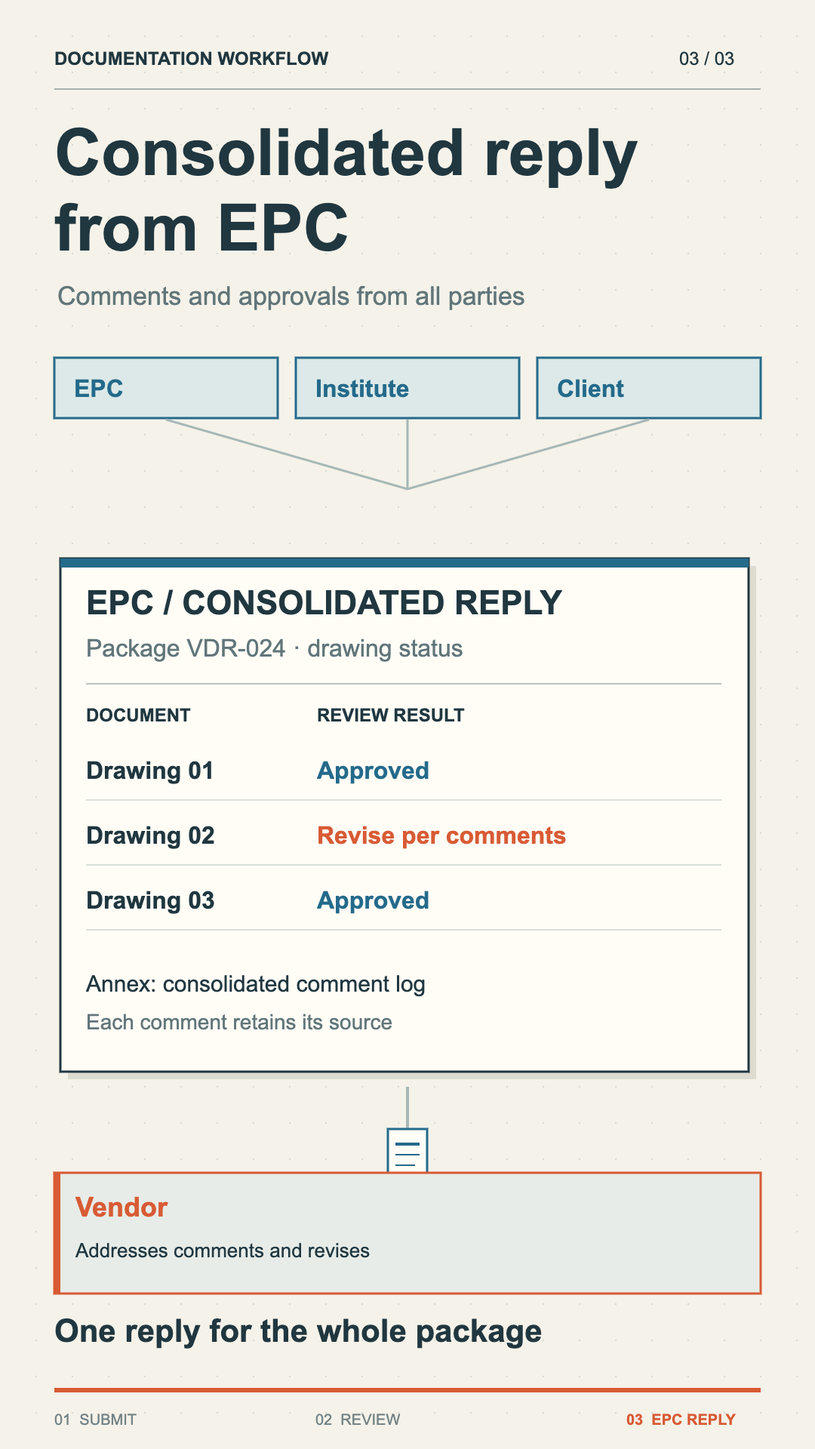
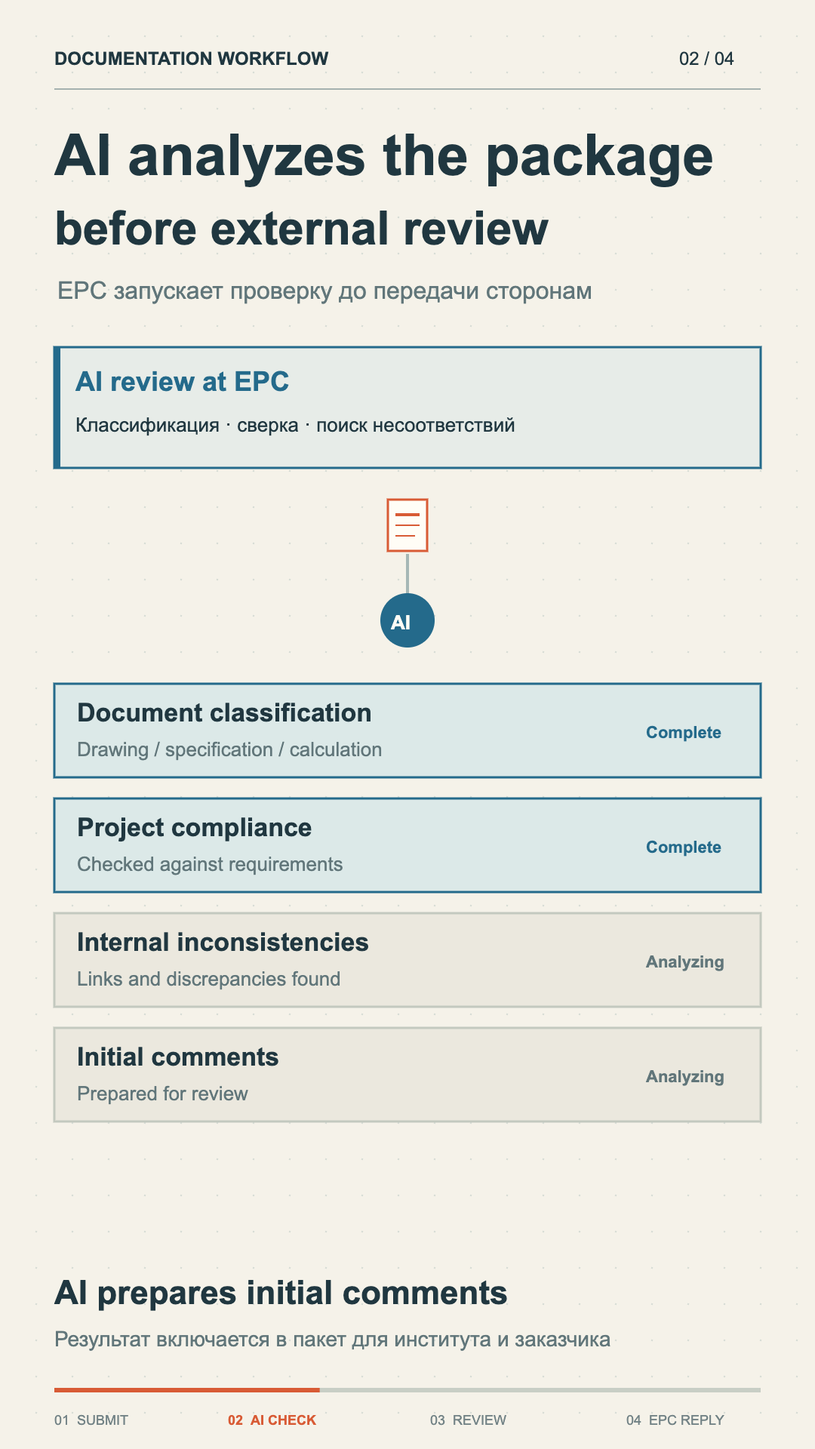
Update EPC animation with AI-assisted review

diff --git a/public/demos/epc-document-flow/index.html b/public/demos/epc-document-flow/index.html
@@ -1,8 +1,8 @@
-<!doctype html><html lang="ru"><meta charset="utf-8"><meta name="viewport" content="width=device-width,initial-scale=1"><link rel="icon" href="data:,"><title>Документация · рассмотрение и сводный ответ</title><style>*{box-sizing:border-box}body{margin:0;background:#dddcd6;color:#20333c;font:14px system-ui;display:flex;align-items:center;flex-direction:column;padding:18px;gap:12px}canvas{display:block;width:auto;max-width:100%;height:min(82vh,960px);background:#f5f2e9}nav{display:flex;gap:12px;align-items:center;flex-wrap:wrap;justify-content:center}button{background:#20333c;color:#fff;border:0;padding:10px 16px;border-radius:3px;cursor:pointer}input{width:150px}a{color:#20333c}small{max-width:500px;text-align:center}</style><canvas id="c" aria-label="Передача документации, рассмотрение институтом, заказчиком и EPC, сводный ответ вендору"></canvas><nav><a id="language" href="?lang=en">English</a><button id="play">Пауза</button><input id="seek" type="range" min="0" max="359" value="0" aria-label="Кадр"><span id="time"></span><a href="?grid=12">Контрольный лист</a></nav><small>12 секунд · вендор → EPC → институт и заказчик → сводный ответ</small><script>
-const C=document.getElementById('c'),q=new URLSearchParams(location.search),EN=q.get('lang')==='en',FPS=30,TOTAL=360,SEED=Number(q.get('s')||7),W=Number(q.get('w')||1080);let ctx;
+<!doctype html><html lang="ru"><meta charset="utf-8"><meta name="viewport" content="width=device-width,initial-scale=1"><link rel="icon" href="data:,"><title>Документация · рассмотрение и сводный ответ</title><style>*{box-sizing:border-box}body{margin:0;background:#dddcd6;color:#20333c;font:14px system-ui;display:flex;align-items:center;flex-direction:column;padding:18px;gap:12px}canvas{display:block;width:auto;max-width:100%;height:min(82vh,960px);background:#f5f2e9}nav{display:flex;gap:12px;align-items:center;flex-wrap:wrap;justify-content:center}button{background:#20333c;color:#fff;border:0;padding:10px 16px;border-radius:3px;cursor:pointer}input{width:150px}a{color:#20333c}small{max-width:500px;text-align:center}</style><canvas id="c" aria-label="ИИ анализирует документацию вендора до рассмотрения институтом и заказчиком, затем объединяет замечания для ответа EPC"></canvas><nav><a id="language" href="?lang=en">English</a><button id="play">Пауза</button><input id="seek" type="range" min="0" max="719" value="0" aria-label="Кадр"><span id="time"></span><a href="?grid=16">Контрольный лист</a></nav><small>24 секунды · вендор → EPC → ИИ-анализ → институт и заказчик → сводный ответ</small><script>
+const C=document.getElementById('c'),q=new URLSearchParams(location.search),EN=q.get('lang')==='en',FPS=30,TOTAL=720,SEED=Number(q.get('s')||7),W=Number(q.get('w')||1080);let ctx;
 const ink='#203740',orange='#d85b35',blue='#246a8b',paper='#f5f2e9';
 const clamp=x=>Math.max(0,Math.min(1,x)),ease=x=>{x=clamp(x);return x*x*(3-2*x)};
-const EN_TEXT={"НА РАССМОТРЕНИЕ":"FOR REVIEW","01  ПЕРЕДАЧА":"01  SUBMIT","02  РАССМОТРЕНИЕ":"02  REVIEW","03  ОТВЕТ EPC":"03  EPC REPLY","Рассмотрение":"Review","всеми сторонами":"by all parties","EPC координирует общий цикл":"EPC coordinates the review","EPC-подрядчик":"EPC contractor","Рассылка и собственная проверка":"Distributes and reviews","Проектный институт":"Design institute","Проверка проектных решений":"Design review","Заказчик":"Client","Проверка требований":"Requirements review","Замечания и статусы → EPC":"Comments and status → EPC","Документы → на рассмотрение":"Documents → for review","EPC: техническая проверка":"EPC: technical review","Институт: проектные решения":"Institute: design decisions","Заказчик: требования к объекту":"Client: project requirements","Получено":"Received","Проверка":"Review","Параллельное рассмотрение":"Parallel review","Все ответы поступают в EPC":"All replies reach EPC","Согласование или замечания по каждому документу":"Approval or comments on each document","Единый ответ":"Consolidated reply","от EPC":"from EPC","Замечания и согласования всех сторон":"Comments and approvals from all parties","Институт":"Institute","EPC / СВОДНЫЙ ОТВЕТ":"EPC / CONSOLIDATED REPLY","Пакет VDR-024 · статусы по чертежам":"Package VDR-024 · drawing status","ДОКУМЕНТ":"DOCUMENT","РЕЗУЛЬТАТ РАССМОТРЕНИЯ":"REVIEW RESULT","Чертеж 01":"Drawing 01","Чертеж 02":"Drawing 02","Чертеж 03":"Drawing 03","Согласовано":"Approved","Учесть замечания":"Revise per comments","Приложение: общий реестр замечаний":"Annex: consolidated comment log","Источник каждого замечания сохранен":"Each comment retains its source","Вендор":"Vendor","Получает консолидированный ответ":"Receives the consolidated reply","Учитывает замечания и выпускает ревизию":"Addresses comments and revises","EPC объединяет ответы сторон":"EPC consolidates all replies","Один ответ по всему пакету":"One reply for the whole package","ДВИЖЕНИЕ ДОКУМЕНТАЦИИ":"DOCUMENTATION WORKFLOW","От вендора":"From vendor","к EPC":"to EPC","Пакет для рассмотрения решений":"Package for design review","ВЕНДОР":"VENDOR","Техническая документация":"Technical documentation","Чертеж":"Drawing","Спецификация":"Specification","Расчеты":"Calculations","EPC-ПОДРЯДЧИК":"EPC CONTRACTOR","Прием и регистрация":"Receipt and registration","Далее: проверка специалистами":"Next: specialist review","ЗАРЕГИСТРИРОВАНО":"REGISTERED","Формирование пакета":"Preparing the package","Передача в EPC":"Submitted to EPC","Пакет получен EPC":"Package received by EPC","Чертеж · спецификация · расчеты":"Drawing · specification · calculations","Документы ожидают рассмотрения":"Documents await review","Передача пакета от вендора к EPC":"Vendor package submitted to EPC","Рассмотрение всеми сторонами":"Review by all parties","Сводный ответ EPC вендору":"EPC consolidated reply to vendor"};function tr(s){return EN?(EN_TEXT[s]||s):s}
+const EN_TEXT={"НА РАССМОТРЕНИЕ":"FOR REVIEW","01  ПЕРЕДАЧА":"01  SUBMIT","02  РАССМОТРЕНИЕ":"02  REVIEW","03  ОТВЕТ EPC":"03  EPC REPLY","Рассмотрение":"Review","всеми сторонами":"by all parties","EPC координирует общий цикл":"EPC coordinates the review","EPC-подрядчик":"EPC contractor","Рассылка и собственная проверка":"Distributes and reviews","Проектный институт":"Design institute","Проверка проектных решений":"Design review","Заказчик":"Client","Проверка требований":"Requirements review","Замечания и статусы → EPC":"Comments and status → EPC","Документы → на рассмотрение":"Documents → for review","EPC: техническая проверка":"EPC: technical review","Институт: проектные решения":"Institute: design decisions","Заказчик: требования к объекту":"Client: project requirements","Получено":"Received","Проверка":"Review","Параллельное рассмотрение":"Parallel review","Все ответы поступают в EPC":"All replies reach EPC","Согласование или замечания по каждому документу":"Approval or comments on each document","Единый ответ":"Consolidated reply","от EPC":"from EPC","Замечания и согласования всех сторон":"Comments and approvals from all parties","Институт":"Institute","EPC / СВОДНЫЙ ОТВЕТ":"EPC / CONSOLIDATED REPLY","Пакет VDR-024 · статусы по чертежам":"Package VDR-024 · drawing status","ДОКУМЕНТ":"DOCUMENT","РЕЗУЛЬТАТ РАССМОТРЕНИЯ":"REVIEW RESULT","Чертеж 01":"Drawing 01","Чертеж 02":"Drawing 02","Чертеж 03":"Drawing 03","Согласовано":"Approved","Учесть замечания":"Revise per comments","Приложение: общий реестр замечаний":"Annex: consolidated comment log","Источник каждого замечания сохранен":"Each comment retains its source","Вендор":"Vendor","Получает консолидированный ответ":"Receives the consolidated reply","Учитывает замечания и выпускает ревизию":"Addresses comments and revises","EPC объединяет ответы сторон":"EPC consolidates all replies","Один ответ по всему пакету":"One reply for the whole package","ДВИЖЕНИЕ ДОКУМЕНТАЦИИ":"DOCUMENTATION WORKFLOW","От вендора":"From vendor","к EPC":"to EPC","Пакет для рассмотрения решений":"Package for design review","ВЕНДОР":"VENDOR","Техническая документация":"Technical documentation","Чертеж":"Drawing","Спецификация":"Specification","Расчеты":"Calculations","EPC-ПОДРЯДЧИК":"EPC CONTRACTOR","Прием и регистрация":"Receipt and registration","Далее: проверка специалистами":"Next: specialist review","ЗАРЕГИСТРИРОВАНО":"REGISTERED","Формирование пакета":"Preparing the package","Передача в EPC":"Submitted to EPC","Пакет получен EPC":"Package received by EPC","Чертеж · спецификация · расчеты":"Drawing · specification · calculations","Документы ожидают рассмотрения":"Documents await review","Передача пакета от вендора к EPC":"Vendor package submitted to EPC","Рассмотрение всеми сторонами":"Review by all parties","Сводный ответ EPC вендору":"EPC consolidated reply to vendor","01  ПЕРЕДАЧА":"01  SUBMIT","02  ИИ-ПРОВЕРКА":"02  AI CHECK","03  РАССМОТРЕНИЕ":"03  REVIEW","04  ОТВЕТ EPC":"04  EPC REPLY","ИИ анализирует пакет":"AI analyzes the package","до внешней рассылки":"before external review","ИИ-проверка в EPC":"AI review at EPC","Категоризация документов":"Document classification","Чертеж / спецификация / расчет":"Drawing / specification / calculation","Соответствие проекту":"Project compliance","Проверено по требованиям":"Checked against requirements","Внутренние несоответствия":"Internal inconsistencies","Выявлены связи и расхождения":"Links and discrepancies found","Первичные замечания":"Initial comments","Сформированы для рассмотрения":"Prepared for review","Анализ":"Analyzing","Готово":"Complete","Пакет готов к рассылке":"Package ready for distribution","ИИ формирует первичные замечания":"AI prepares initial comments","ИИ обрабатывает ответы":"AI processes the replies","объединяет замечания всех сторон":"and consolidates all comments","ИИ / СВОДНЫЙ РЕЕСТР":"AI / CONSOLIDATED COMMENT LOG","Дубликаты объединены · источники сохранены":"Duplicates merged · sources retained","EPC направляет оформленный ответ":"EPC issues the formatted reply","Получает замечания для проработки":"Receives comments for resolution","Анализирует предложения и выпускает ревизию":"Reviews proposals and issues a revision","ИИ собирает и оформляет замечания":"AI consolidates and formats comments","EPC направляет ответ вендору":"EPC sends the reply to the vendor","ИИ-анализ до внешней рассылки":"AI analysis before external distribution","Рассмотрение институтом и заказчиком":"Institute and client review","ИИ-сводка и ответ EPC вендору":"AI consolidation and EPC reply to vendor","EPC запускает проверку до передачи сторонам":"EPC starts the check before distribution","Классификация · сверка · поиск несоответствий":"Classification · compliance · discrepancy scan","Результат включается в пакет для института и заказчика":"The result is included for institute and client review","Далее: ИИ-анализ пакета":"Next: AI package analysis","Документы ожидают ИИ-проверки":"Documents await AI analysis","EPC проверяет оформление и направляет вендору":"EPC validates the package and sends it to the vendor"};function tr(s){return EN?(EN_TEXT[s]||s):s}
 function text(s,x,y,size=16,color=ink,bold=false){s=tr(s);ctx.fillStyle=color;ctx.font=`${bold?'bold ':''}${size}px Arial`;while(ctx.measureText(s).width>Math.max(70,504-x)&&size>9){size--;ctx.font=`${bold?'bold ':''}${size}px Arial`}ctx.fillText(s,x,y)}
 function line(x,y,a,b,color=ink,width=1){ctx.strokeStyle=color;ctx.lineWidth=width;ctx.beginPath();ctx.moveTo(x,y);ctx.lineTo(a,b);ctx.stroke()}
 function box(x,y,w,h,color,stroke){ctx.fillStyle=color;ctx.fillRect(x,y,w,h);if(stroke){ctx.strokeStyle=stroke;ctx.lineWidth=1.5;ctx.strokeRect(x,y,w,h)}}
@@ -11,11 +11,17 @@ function doc(x,y,angle,kind,seed){ctx.save();ctx.translate(x,y);ctx.rotate(angle
 if(kind==='Чертеж'){ctx.strokeStyle=blue;ctx.lineWidth=2;ctx.strokeRect(-47,-20,87,54);line(-59,7,53,7,blue,2);dot(-3,7,20,paper);ctx.strokeStyle=blue;ctx.stroke();line(-55,49,49,49,blue);line(-55,44,-55,54,blue);line(49,44,49,54,blue)}else{for(let k=0;k<4;k++)line(-68,-20+k*18,48-((seed+k*19)%28),-20+k*18,'#87999d',2)}
 line(-70,68,64,68,'#bbc3c0');text('REV. 0',-70,88,11,ink,true);text('НА РАССМОТРЕНИЕ',-16,88,8,ink);ctx.restore()}
 
-function footer(n,stage){line(36,921,504,921,'#c8cec5',3);line(36,921,36+468*n/359,921,orange,3);['01  ПЕРЕДАЧА','02  РАССМОТРЕНИЕ','03  ОТВЕТ EPC'].forEach((s,i)=>text(s,[36,209,415][i],944,10,i===stage?orange:'#738386',i===stage))}
+function footer(n,stage){line(36,921,504,921,'#c8cec5',3);line(36,921,36+468*n/479,921,orange,3);['01  ПЕРЕДАЧА','02  ИИ-ПРОВЕРКА','03  РАССМОТРЕНИЕ','04  ОТВЕТ EPC'].forEach((s,i)=>text(s,[36,151,285,415][i],944,9,i===stage?orange:'#738386',i===stage))}
 function actor(x,y,w,title,sub,color=blue){box(x,y,w,80,'#e7ece8',color);box(x,y,4,80,color);text(title,x+14,y+29,18,color,true);text(sub,x+14,y+56,13,ink)}
 function packet(x,y,color=orange){box(x-13,y-17,26,34,'#fffdf6',color);line(x-8,y-7,x+8,y-7,color,2);line(x-8,y,x+8,y,color);line(x-8,y+7,x+5,y+7,color)}
 function travel(x,y,a,b,t,color){line(x,y,a,b,'#a6b7b6',2);packet(x+(a-x)*ease(t),y+(b-y)*ease(t),color)}
-function review(n){const f=n-120; text('02 / 03',450,43,12,ink);text('Рассмотрение',36,116,40,ink,true);text('всеми сторонами',36,166,36,ink,true);text('EPC координирует общий цикл',38,202,18,'#61767a');
+function aiCheck(n){const f=n-120;text('02 / 04',450,43,12,ink);text('ИИ анализирует пакет',36,116,38,ink,true);text('до внешней рассылки',36,162,31,ink,true);text('EPC запускает проверку до передачи сторонам',38,198,16,'#61767a');
+actor(36,230,468,'ИИ-проверка в EPC','Классификация · сверка · поиск несоответствий',blue);
+packet(270,348,orange);line(270,367,270,397,'#a6b7b6',2);dot(270,411,18,blue);text('AI',259,417,13,'#fffdf6',true);
+const rows=[['Категоризация документов','Чертеж / спецификация / расчет'],['Соответствие проекту','Проверено по требованиям'],['Внутренние несоответствия','Выявлены связи и расхождения'],['Первичные замечания','Сформированы для рассмотрения']];
+rows.forEach((row,i)=>{const ready=f>=22+i*20;box(36,453+i*76,468,62,ready?'#dce9e8':'#ebe8de',ready?blue:'#c3c9bf');text(row[0],51,478+i*76,17,ink,true);text(row[1],51,501+i*76,13,'#61767a');text(ready?'Готово':'Анализ',428,489+i*76,11,ready?blue:'#61767a',true)});
+text(f<88?'ИИ формирует первичные замечания':'Пакет готов к рассылке',36,864,22,ink,true);text('Результат включается в пакет для института и заказчика',36,892,14,'#61767a');footer(n,1)}
+function review(n){const f=n-240; text('03 / 04',450,43,12,ink);text('Рассмотрение',36,116,40,ink,true);text('всеми сторонами',36,166,36,ink,true);text('EPC координирует общий цикл',38,202,18,'#61767a');
 actor(130,252,280,'EPC-подрядчик','Рассылка и собственная проверка');
 const returned=f>=65,t=returned?(f-65)/34:f/32;
 travel(returned?140:270,returned?473:342,returned?270:140,returned?342:473,t,returned?blue:orange);
@@ -23,20 +29,20 @@ travel(returned?400:270,returned?473:342,returned?270:400,returned?342:473,t,ret
 actor(36,485,224,'Проектный институт','Проверка проектных решений');actor(280,485,224,'Заказчик','Проверка требований');
 text(returned?'Замечания и статусы → EPC':'Документы → на рассмотрение',82,620,21,ink,true);
 const labels=['EPC: техническая проверка','Институт: проектные решения','Заказчик: требования к объекту'];labels.forEach((v,i)=>{const ready=f>=80+i*10;box(36,654+i*49,468,40,ready?'#dce9e8':'#ebe8de');text(v,49,680+i*49,16,ink);text(ready?'Получено':'Проверка',412,680+i*49,12,ready?blue:'#61767a',true)});
-text(f<65?'Параллельное рассмотрение':'Все ответы поступают в EPC',36,864,23,ink,true);text('Согласование или замечания по каждому документу',36,892,15,'#61767a');footer(n,1)}
-function response(n){const f=n-240,t=ease((f-66)/28);text('03 / 03',450,43,12,ink);text('Единый ответ',36,116,43,ink,true);text('от EPC',36,166,43,ink,true);text('Замечания и согласования всех сторон',38,202,17,'#61767a');
+text(f<65?'Параллельное рассмотрение':'Все ответы поступают в EPC',36,864,23,ink,true);text('Согласование или замечания по каждому документу',36,892,15,'#61767a');footer(n,2)}
+function response(n){const f=n-360,t=ease((f-66)/28);text('04 / 04',450,43,12,ink);text('ИИ обрабатывает ответы',36,112,34,ink,true);text('объединяет замечания всех сторон',36,154,27,ink,true);text('EPC проверяет оформление и направляет вендору',38,194,15,'#61767a');
 ['EPC','Институт','Заказчик'].forEach((v,i)=>{box(36+i*160,237,148,40,'#dce9e8',blue);text(v,49+i*160,263,16,blue,true);line(110+i*160,278,270,324,'#a6b7b6',1.5)});
-let y=332+t*38;box(45,y+5,456,340,'#dedbd1');box(40,y,456,340,'#fffdf6',ink);box(40,y,456,6,blue);text('EPC / СВОДНЫЙ ОТВЕТ',57,y+37,22,ink,true);text('Пакет VDR-024 · статусы по чертежам',57,y+65,16,'#61767a');line(57,y+83,478,y+83,'#bbc3c0');
+let y=332+t*38;box(45,y+5,456,340,'#dedbd1');box(40,y,456,340,'#fffdf6',ink);box(40,y,456,6,blue);text('ИИ / СВОДНЫЙ РЕЕСТР',57,y+37,22,ink,true);text('Дубликаты объединены · источники сохранены',57,y+65,14,'#61767a');line(57,y+83,478,y+83,'#bbc3c0');
 text('ДОКУМЕНТ',57,y+108,12,ink,true);text('РЕЗУЛЬТАТ РАССМОТРЕНИЯ',210,y+108,12,ink,true);
 [['Чертеж 01','Согласовано',blue],['Чертеж 02','Учесть замечания',orange],['Чертеж 03','Согласовано',blue]].forEach((row,i)=>{ctx.save();ctx.globalAlpha=ease((f-i*8)/15);text(row[0],57,y+146+i*43,16,ink,true);text(row[1],210,y+146+i*43,16,row[2],true);line(57,y+160+i*43,478,y+160+i*43,'#d9dfd9');ctx.restore()});
-text('Приложение: общий реестр замечаний',57,y+287,15,ink);text('Источник каждого замечания сохранен',57,y+312,14,'#61767a');
+text('EPC направляет оформленный ответ',57,y+287,15,ink,true);text('Приложение: общий реестр замечаний',57,y+312,14,'#61767a');
 if(f>60)travel(270,720,270,765,(f-60)/32,blue);
-actor(36,777,468,'Вендор',f<95?'Получает консолидированный ответ':'Учитывает замечания и выпускает ревизию',orange);
-text(f<65?'EPC объединяет ответы сторон':'Один ответ по всему пакету',36,889,21,ink,true);footer(n,2)}
+actor(36,777,468,'Вендор',f<95?'Получает замечания для проработки':'Анализирует предложения и выпускает ревизию',orange);
+text(f<65?'ИИ собирает и оформляет замечания':'EPC направляет ответ вендору',36,889,21,ink,true);footer(n,3)}
 
-function draw(n,w=1080,seed=7,target=C){n=Math.max(0,Math.min(TOTAL-1,Math.floor(n)));target.width=w;target.height=Math.round(w*16/9);ctx=target.getContext('2d');ctx.scale(w/540,w/540);box(0,0,540,960,paper);
+function draw(n,w=1080,seed=7,target=C){n=Math.max(0,Math.min(TOTAL-1,n))/1.5;target.width=w;target.height=Math.round(w*16/9);ctx=target.getContext('2d');ctx.scale(w/540,w/540);box(0,0,540,960,paper);
 for(let y=24;y<940;y+=24)for(let x=24;x<530;x+=24)dot(x,y,.65,'#d8ddd6');
-text('ДВИЖЕНИЕ ДОКУМЕНТАЦИИ',36,43,12,ink,true);if(n>=120){line(36,59,504,59,'#a5b2af');if(n<240)review(n);else response(n);return target;}text('01 / 03',450,43,12,ink);line(36,59,504,59,'#a5b2af');
+text('ДВИЖЕНИЕ ДОКУМЕНТАЦИИ',36,43,12,ink,true);if(n>=120){line(36,59,504,59,'#a5b2af');if(n<240)aiCheck(n);else if(n<360)review(n);else response(n);return target;}text('01 / 04',450,43,12,ink);line(36,59,504,59,'#a5b2af');
 text('От вендора',36,116,43,ink,true);text('к EPC',36,166,43,ink,true);text('Пакет для рассмотрения решений',38,202,18,'#61767a');
 // Fixed actors and central transmission axis.
 box(36,242,468,82,'#ebe8de', '#c3c9bf');box(36,242,5,82,orange);text('ВЕНДОР',57,272,13,orange,true);text('Техническая документация',57,302,21,ink,true);
@@ -45,13 +51,13 @@ let move=ease((n-30)/56),gather=ease(n/24),arrive=ease((n-85)/15);let y=465+move
 // The packet consolidates, travels, then settles into the EPC inbox.
 for(let i=2;i>=0;i--){let spread=(1-gather)*30;doc(270+(i-1)*spread+(i-1)*9,y-(i)*8,((i-1)*(1-gather)*.13)+(i-1)*.025,['Чертеж','Спецификация','Расчеты'][i],seed+i)}
 if(n>30&&n<90){let yy=346+move*319;dot(466,yy,5,orange);line(466,346,466,yy,orange,2)}
-box(36,714,468,100,arrive>.3?'#dce9e8':'#e7ece8',blue);box(36,714,5,100,blue);text('EPC-ПОДРЯДЧИК',57,744,13,blue,true);text('Прием и регистрация',57,776,23,ink,true);text('Далее: проверка специалистами',57,800,14,'#61767a');
+box(36,714,468,100,arrive>.3?'#dce9e8':'#e7ece8',blue);box(36,714,5,100,blue);text('EPC-ПОДРЯДЧИК',57,744,13,blue,true);text('Прием и регистрация',57,776,23,ink,true);text('Далее: ИИ-анализ пакета',57,800,14,'#61767a');
 if(arrive>0){ctx.save();ctx.globalAlpha=arrive;box(298,661,192,34,blue);text('ЗАРЕГИСТРИРОВАНО',311,683,13,'#fffdf6',true);ctx.restore()}
-let status=n<30?'Формирование пакета':n<86?'Передача в EPC':'Пакет получен EPC';text(status,36,864,22,ink,true);text(n<86?'Чертеж · спецификация · расчеты':'Документы ожидают рассмотрения',36,892,15,'#61767a');
+let status=n<30?'Формирование пакета':n<86?'Передача в EPC':'Пакет получен EPC';text(status,36,864,22,ink,true);text(n<86?'Чертеж · спецификация · расчеты':'Документы ожидают ИИ-проверки',36,892,15,'#61767a');
 footer(n,0);return target;}
 function contact(count=12,cellWidth=270){count=Math.max(1,Math.min(48,Math.floor(count)));const sheet=document.createElement('canvas'),cols=Math.min(4,count),h=Math.round(cellWidth*16/9),pad=18,label=28;sheet.width=cols*(cellWidth+pad)+pad;sheet.height=Math.ceil(count/cols)*(h+label+pad)+pad;const g=sheet.getContext('2d');g.fillStyle='#deded6';g.fillRect(0,0,sheet.width,sheet.height);for(let i=0;i<count;i++){let f=Math.round(i*(TOTAL-1)/Math.max(1,count-1)),tmp=document.createElement('canvas');draw(f,cellWidth,SEED,tmp);let x=pad+(i%cols)*(cellWidth+pad),y=pad+Math.floor(i/cols)*(h+label+pad);g.drawImage(tmp,x,y);g.fillStyle=ink;g.font='13px Arial';g.fillText(`${(f/FPS).toFixed(2)} ${EN?'sec / frame':'с / кадр'} ${f}`,x,y+h+19)}return sheet}
-window.RISO={get total(){return TOTAL},fps:FPS,plannedTotal:360,frame(n,w=1080,s=7){return draw(n,w,s,document.createElement('canvas')).toDataURL('image/png')},contact(n=12,w=270){return contact(n,w).toDataURL('image/png')},plates:[{name:'Передача пакета от вендора к EPC',len:120},{name:'Рассмотрение всеми сторонами',len:120},{name:'Сводный ответ EPC вендору',len:120}]};
-let f=Number(q.get('f')||0),playing=!q.has('f')&&!matchMedia('(prefers-reduced-motion: reduce)').matches,prev=0;const play=document.getElementById('play'),seek=document.getElementById('seek'),timer=document.getElementById('time');function show(){draw(f,W,SEED);seek.value=f;timer.textContent=(f/FPS).toFixed(2)+(EN?' / 12.00 sec':' / 12.00 с');play.textContent=playing?(EN?'Pause':'Пауза'):(EN?'Play':'Воспроизвести');document.getElementById('language').href='?'+(EN?'':'lang=en&')+'f='+Math.floor(f)}
+window.RISO={get total(){return TOTAL},fps:FPS,plannedTotal:720,frame(n,w=1080,s=7){return draw(n,w,s,document.createElement('canvas')).toDataURL('image/png')},contact(n=16,w=270){return contact(n,w).toDataURL('image/png')},plates:[{name:'Передача пакета от вендора к EPC',len:180},{name:'ИИ-анализ до внешней рассылки',len:180},{name:'Рассмотрение институтом и заказчиком',len:180},{name:'ИИ-сводка и ответ EPC вендору',len:180}]};
+let f=Number(q.get('f')||0),playing=!q.has('f')&&!matchMedia('(prefers-reduced-motion: reduce)').matches,prev=0;const play=document.getElementById('play'),seek=document.getElementById('seek'),timer=document.getElementById('time');function show(){draw(f,W,SEED);seek.value=f;timer.textContent=(f/FPS).toFixed(2)+(EN?' / 24.00 sec':' / 24.00 с');play.textContent=playing?(EN?'Pause':'Пауза'):(EN?'Play':'Воспроизвести');document.getElementById('language').href='?'+(EN?'':'lang=en&')+'f='+Math.floor(f)}
 play.onclick=()=>{playing=!playing;prev=0;show()};seek.oninput=()=>{playing=false;f=Number(seek.value);show()};
-if(q.has('grid')){let sheet=contact(Number(q.get('grid')),270);C.width=sheet.width;C.height=sheet.height;C.getContext('2d').drawImage(sheet,0,0);C.style.height='auto';C.style.width='min(100%, 1168px)';document.querySelector('nav').style.display='none'}else{show();requestAnimationFrame(function tick(t){if(playing){if(prev){f=(f+(t-prev)*FPS/1000)%TOTAL}show()}prev=t;requestAnimationFrame(tick)})}document.documentElement.lang=EN?'en':'ru';document.title=EN?'Documentation · review and consolidated reply':'Документация · рассмотрение и сводный ответ';document.querySelector('small').textContent=EN?'12 seconds · vendor → EPC → institute and client → consolidated reply':'12 секунд · вендор → EPC → институт и заказчик → сводный ответ';document.getElementById('seek').setAttribute('aria-label',EN?'Frame':'Кадр');C.setAttribute('aria-label',EN?'Documentation goes to EPC, design institute and client for review; EPC sends a consolidated reply':'Передача документации, рассмотрение институтом, заказчиком и EPC, сводный ответ вендору');const gridLink=document.querySelector('nav a[href^="?grid"]');gridLink.textContent=EN?'Contact sheet':'Контрольный лист';gridLink.href='?grid=12'+(EN?'&lang=en':'');const language=document.getElementById('language');language.textContent=EN?'Русский':'English';language.href='?'+(EN?'':'lang=en&')+'f='+Math.floor(f)+(q.has('grid')?'&grid='+encodeURIComponent(q.get('grid')):'');window.__ready=true;
+if(q.has('grid')){let sheet=contact(Number(q.get('grid')),270);C.width=sheet.width;C.height=sheet.height;C.getContext('2d').drawImage(sheet,0,0);C.style.height='auto';C.style.width='min(100%, 1168px)';document.querySelector('nav').style.display='none'}else{show();requestAnimationFrame(function tick(t){if(playing){if(prev){f=(f+(t-prev)*FPS/1000)%TOTAL}show()}prev=t;requestAnimationFrame(tick)})}document.documentElement.lang=EN?'en':'ru';document.title=EN?'Documentation · review and consolidated reply':'Документация · рассмотрение и сводный ответ';document.querySelector('small').textContent=EN?'24 seconds · vendor → EPC → AI analysis → institute and client → consolidated reply':'24 секунды · вендор → EPC → ИИ-анализ → институт и заказчик → сводный ответ';document.getElementById('seek').setAttribute('aria-label',EN?'Frame':'Кадр');C.setAttribute('aria-label',EN?'AI analyzes vendor documentation before design institute and client review, then consolidates comments for the EPC reply':'ИИ анализирует документацию вендора до рассмотрения институтом и заказчиком, затем объединяет замечания для ответа EPC');const gridLink=document.querySelector('nav a[href^="?grid"]');gridLink.textContent=EN?'Contact sheet':'Контрольный лист';gridLink.href='?grid=16'+(EN?'&lang=en':'');const language=document.getElementById('language');language.textContent=EN?'Русский':'English';language.href='?'+(EN?'':'lang=en&')+'f='+Math.floor(f)+(q.has('grid')?'&grid='+encodeURIComponent(q.get('grid')):'');window.__ready=true;
 </script></html>

diff --git a/constants.ts b/constants.ts
@@ -247,15 +247,15 @@ export const KNOWLEDGE_ITEMS: KnowledgeItem[] = [
 export const ARTICLES: ArticleItem[] = [
   {
     id: 'epc-document-flow',
-    title: 'Engineering Process Animation for EPC Presentations',
-    description: 'A bilingual, 12-second visual note about vendor documentation: EPC distributes the package for parallel review, collects comments from the design institute and client, and sends a consolidated reply to the vendor.',
-    category: 'Engineering Visualization',
-    date: 'Sep 15, 2026',
-    readTime: '12 sec demo',
+    title: 'AI-Assisted EPC Document Review Animation',
+    description: 'A bilingual, 24-second visual note showing how AI supports vendor-document review within EPC: classification, requirement checks, inconsistency detection, initial comments, and consolidation of stakeholder feedback before EPC issues the reply.',
+    category: 'AI-Assisted Engineering Review',
+    date: 'Sep 16, 2026',
+    readTime: '24 sec demo',
     href: `${import.meta.env.BASE_URL}demos/epc-document-flow/?lang=en`,
     image: '/images/articles/epc-document-flow.png',
-    tags: ['EPC', 'Document Review', 'Animation', 'RU / EN'],
-    highlight: 'Vendor → EPC → parallel review → consolidated reply'
+    tags: ['EPC', 'AI Analysis', 'Document Review', 'RU / EN'],
+    highlight: 'Vendor → EPC → AI analysis → stakeholder review → AI consolidation → EPC reply'
   },
   {
     id: 'agent-incident-map',
